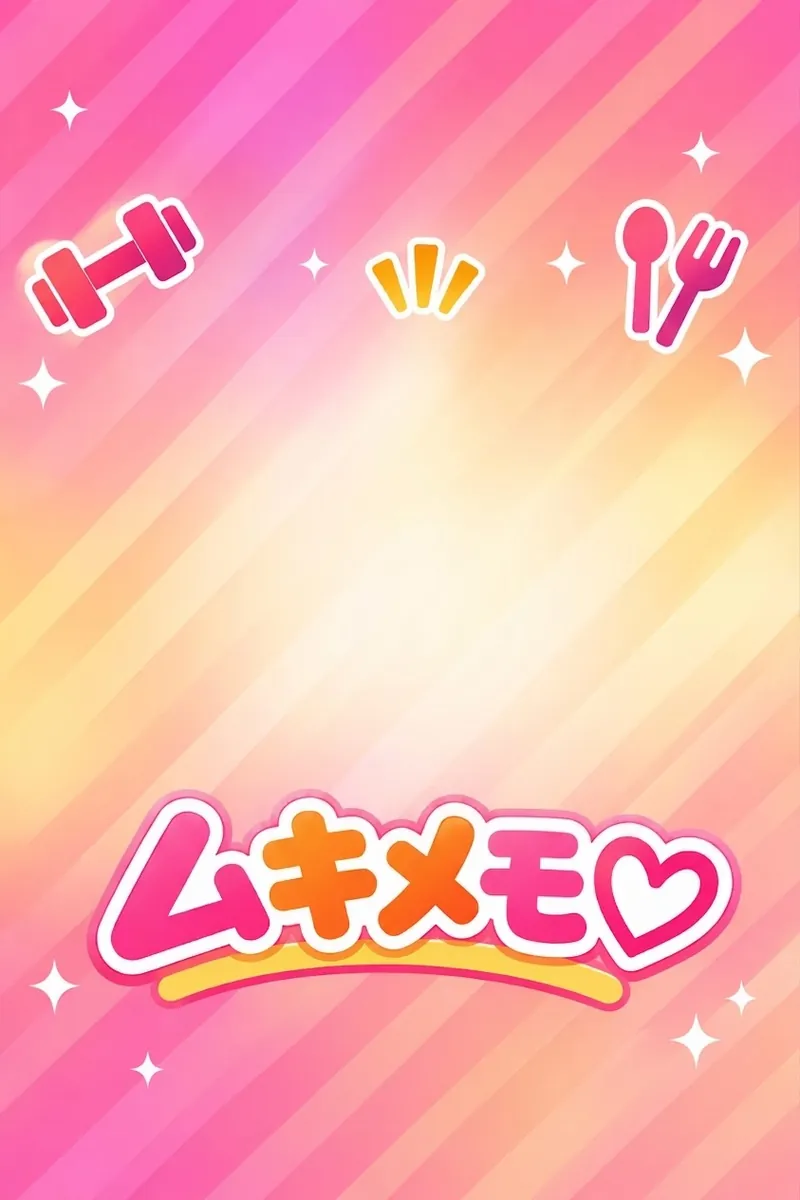
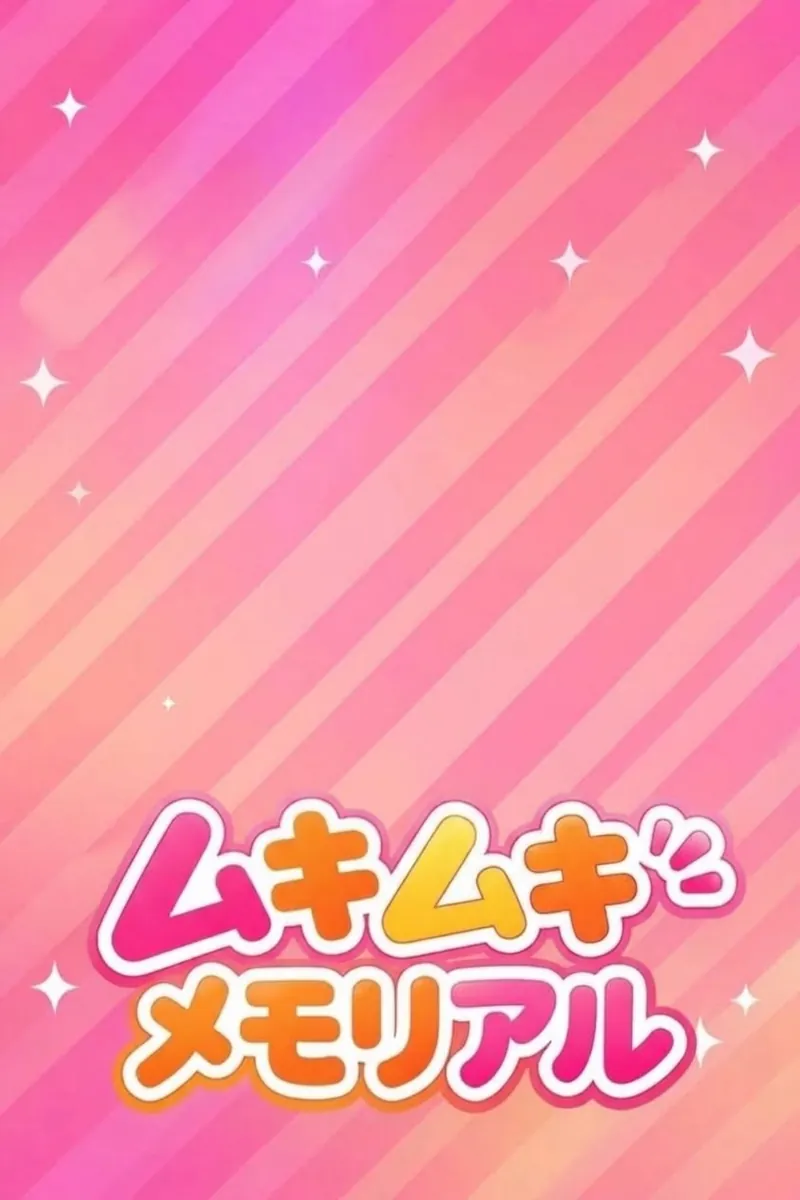
トップ画面の絵を差し替え、TOPボタンを文字に
Claude-Session: https://claude.ai/code/session_011i5KusWVnTpbStA9EAZEZn

diff --git a/app.js b/app.js
@@ -349,7 +349,7 @@ function mealView() {
   return `<main class="screen">
     <div class="head">
       <div style="display:flex;align-items:center">
-        <button class="topbtn" data-act="openTitle" aria-label="トップ画面"><img src="assets/icons/icon-180.png" alt=""></button>
+        <button class="topbtn" data-act="openTitle" aria-label="トップ画面">TOP</button>
         <button class="iconbtn" data-act="day" data-d="-1" aria-label="前の日">${IC.chevL()}</button>
         <h1 class="num" style="font-size:20px;font-weight:800">${d.md}<span style="font-size:14px;font-weight:500;color:var(--sub)"> ${d.wd}${isToday ? '・今日' : ''}</span></h1>
         <button class="iconbtn" data-act="day" data-d="1" aria-label="次の日" ${isToday ? 'disabled' : ''}>${IC.chevR(22)}</button>
@@ -576,7 +576,7 @@ function doneTodayView(last) {
       ${pb ? '<span class="badge">自己ベスト</span>' : ''}</div>`;
   }).join('');
   return `<main class="screen">
-    <div class="head"><span class="hl"><button class="topbtn" data-act="openTitle" aria-label="トップ画面"><img src="assets/icons/icon-180.png" alt=""></button><h1>トレーニング</h1></span></div>
+    <div class="head"><span class="hl"><button class="topbtn" data-act="openTitle" aria-label="トップ画面">TOP</button><h1>トレーニング</h1></span></div>
     ${cycleBar(false)}
     <section class="donetoday" aria-label="今日のトレーニング完了">
       <span class="tro">${IC.trophy(34)}</span>
@@ -613,7 +613,7 @@ function trainView() {
     </div>${chal && chal.exId === p.exId ? `<div class="chal-note">${IC.flame(16)}<b>チャレンジ</b><span>${chalText(p.exId, chal.w, chal.reps)}で自己ベスト更新</span></div>` : ''}`;
   }).join('');
   return `<main class="screen">
-    <div class="head"><span class="hl"><button class="topbtn" data-act="openTitle" aria-label="トップ画面"><img src="assets/icons/icon-180.png" alt=""></button><h1>トレーニング</h1></span>${last ? `<span class="sub" style="font-size:13px">前回 <b class="num" style="font-size:15px;color:var(--text)">${mdLabel(last.date).md}</b></span>` : ''}</div>
+    <div class="head"><span class="hl"><button class="topbtn" data-act="openTitle" aria-label="トップ画面">TOP</button><h1>トレーニング</h1></span>${last ? `<span class="sub" style="font-size:13px">前回 <b class="num" style="font-size:15px;color:var(--text)">${mdLabel(last.date).md}</b></span>` : ''}</div>
     ${cycleBar(true)}
     <section class="soft" aria-label="今日のメニュー" style="padding:18px;display:flex;flex-direction:column;gap:14px">
       <div style="display:flex;align-items:center;gap:14px">
@@ -1046,7 +1046,7 @@ function recordView() {
   const bests = Object.entries(S.exState).filter(([, v]) => v.best != null).sort((a, b) => (b[1].bestDate || '').localeCompare(a[1].bestDate || '')).slice(0, 3);
   const lastPhoto = PHOTOS.length ? PHOTOS[PHOTOS.length - 1] : null;
   return `<main class="screen">
-    <div class="head"><span class="hl"><button class="topbtn" data-act="openTitle" aria-label="トップ画面"><img src="assets/icons/icon-180.png" alt=""></button><h1>記録</h1></span><button class="iconbtn" data-act="openPage" data-page="settings" aria-label="設定" style="margin-right:-10px"><span class="part" style="width:24px;height:24px;--m:url(assets/icons/gear.png)" aria-hidden="true"></span></button></div>
+    <div class="head"><span class="hl"><button class="topbtn" data-act="openTitle" aria-label="トップ画面">TOP</button><h1>記録</h1></span><button class="iconbtn" data-act="openPage" data-page="settings" aria-label="設定" style="margin-right:-10px"><span class="part" style="width:24px;height:24px;--m:url(assets/icons/gear.png)" aria-hidden="true"></span></button></div>
     ${backupDue() ? `<button class="backup-note" data-act="exportData">${IC.download(20)}<span><b>バックアップしておきましょう</b><small>${S.lastBackup ? `最後のバックアップから${backupDays()}日` : 'まだ一度もバックアップしていません'}</small></span>${IC.chevR()}</button>` : ''}
     <section class="soft" aria-label="今朝の体重" style="padding:16px 18px 18px;display:flex;flex-direction:column;gap:12px">
       <div style="display:flex;align-items:center;justify-content:space-between"><span class="acc" style="font-size:13px;font-weight:700">今朝の体重${todayKg != null ? '（記録済み）' : ''}</span>${prevKg != null ? `<span class="sub" style="font-size:12px">前回 <b class="num">${fmt1(prevKg)}</b>kg</span>` : ''}</div>

diff --git a/styles.css b/styles.css
@@ -403,15 +403,14 @@ button.cy:active { transform: scale(.97); }
 .lg-dash { width: 14px; border-top: 2px dashed var(--accent); opacity: .7; }
 
 /* ---------- トップ画面 ---------- */
-.topbtn { width: 34px; height: 34px; padding: 0; margin-right: 6px; border-radius: 9px; overflow: hidden; flex-shrink: 0; box-shadow: 0 2px 6px rgba(0, 0, 0, .15); }
-.topbtn img { width: 100%; height: 100%; display: block; }
+.topbtn { height: 30px; min-width: 44px; padding: 0 10px; margin-right: 8px; border-radius: 999px; flex-shrink: 0; background: var(--soft); color: var(--accent); font-size: 12px; font-weight: 800; letter-spacing: .06em; }
 .topbtn:active { transform: scale(.94); }
 .hl { display: flex; align-items: center; }
 .title-screen { position: fixed; inset: 0; z-index: 100; display: flex; align-items: center; justify-content: center; overflow: hidden; background: #F7A8C4; cursor: pointer; }
 .title-screen.out { animation: ttOut .38s ease-in forwards; }
 @keyframes ttOut { to { opacity: 0; transform: scale(1.06); } }
 .tt-backdrop { position: absolute; inset: 0; background: repeating-linear-gradient(135deg, rgba(255, 255, 255, .13) 0 26px, transparent 26px 56px), linear-gradient(165deg, #F77DB5, #FBB8B0 48%, #FDD9A8 62%, #F78FC0); }
-.tt-stage { position: relative; width: min(100vw, calc(100vh * 2 / 3)); aspect-ratio: 2 / 3; -webkit-mask: linear-gradient(transparent, #000 9%, #000 91%, transparent); mask: linear-gradient(transparent, #000 9%, #000 91%, transparent); }
+.tt-stage { position: relative; width: min(100vw, calc(100vh * 2 / 3)); aspect-ratio: 2 / 3; -webkit-mask: linear-gradient(transparent, #000 6%, #000 95%, transparent); mask: linear-gradient(transparent, #000 6%, #000 95%, transparent); }
 .tt-stage > img, .tt-robots { position: absolute; inset: 0; width: 100%; height: 100%; object-fit: cover; }
 .tt-fx { position: absolute; inset: 0; z-index: 4; pointer-events: none; }
 .tt-fx .fx { position: absolute; }

diff --git a/sw.js b/sw.js
@@ -1,5 +1,5 @@
 /* オフラインでも開けるようにするキャッシュ。ファイルを更新したら VERSION を上げる */
-const VERSION = 'v40';
+const VERSION = 'v41';
 const FILES = [
   './', 'index.html', 'styles.css', 'data.js', 'icons.js', 'lines.js', 'lines-robot.js', 'store.js', 'app.js', 'manifest.webmanifest',
   'assets/char/v2/meal1-confused.webp', 'assets/char/v2/meal1-grin.webp', 'assets/char/v2/meal1-kyun.webp', 'assets/char/v2/meal1-kyunkyun.webp', 'assets/char/v2/meal1-laugh.webp', 'assets/char/v2/meal1-normal.webp', 'assets/char/v2/meal1-normal2.webp', 'assets/char/v2/meal1-smile.webp', 'assets/char/v2/meal1-surprise.webp', 'assets/char/v2/meal2-kyunkyun.webp', 'assets/char/v2/meal2-normal.webp', 'assets/char/v2/meal2-smile.webp', 'assets/char/v2/meal2-surprise.webp', 'assets/char/v2/trainer1-grin.webp', 'assets/char/v2/trainer1-grin2.webp', 'assets/char/v2/trainer1-kyun.webp', 'assets/char/v2/trainer1-kyunkyun.webp', 'assets/char/v2/trainer1-laugh.webp', 'assets/char/v2/trainer1-love.webp', 'assets/char/v2/trainer1-normal.webp', 'assets/char/v2/trainer1-normal2.webp', 'assets/char/v2/trainer1-surprise.webp', 'assets/char/v2/trainer2-grin.webp', 'assets/char/v2/trainer2-laugh.webp', 'assets/char/v2/trainer2-normal.webp', 'assets/char/v2/trainer2-surprise.webp',
